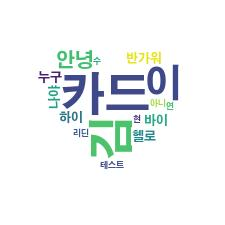
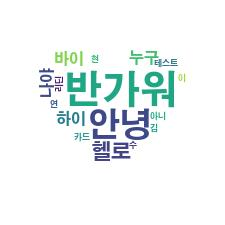
Delete: pycache | Modify: Wordcloud, Preprocessing

Changed region(s): [[0.1556, 0.2178, 0.84, 0.7467]]

diff --git a/features/Data_process/Preprocessing.py b/features/Data_process/Preprocessing.py
@@ -19,8 +19,9 @@ class Preprocessing:
         self.alphabet = 'abcdefghijklmnopqrstuvwxyzABCDEFGHIJKLMNOPQRSTUVWXYZ'
         self.number = '0123456789'
 
-    def processData(self, data):
-        print("Preprocess Start...")
+    def chatToSentence(self, data):
+        ''' data: crawled comment data'''
+        
         print("Make Sentences...")
         self.sentences = list()
         for idx, key in enumerate(data.keys()):
@@ -28,10 +29,14 @@ class Preprocessing:
             for comment in tqdm(data[key]):
                 for sentence in comment.split('\n'):
                     self.sentences.append(sentence.strip(self.token))
-
+        print('Done.')
+    
+    def sentenceToWord(self, data):
+        ''' data: may be several sentence data or preprocessed sentence data'''
+        
         print('\nMake Words...')
         self.words = list()
-        for sentence in tqdm(self.sentences):
+        for sentence in tqdm(data):
             for word in sentence.split(' '):
                 # Delete Emoticons
                 word = self.emoticon.sub(r'',word)
@@ -43,6 +48,7 @@ class Preprocessing:
                 word = word.strip(self.number)
                 # Store the word
                 self.words.append(word)
+        print('Done.')
     
     def getWord(self):
         return self.words

diff --git a/features/Data_process/Wordcloud.py b/features/Data_process/Wordcloud.py
@@ -8,14 +8,14 @@ import numpy as np
 
 class Wordcloud:
     def __init__(self, data=None):
-        self.data = data
+        self.words = data
 
     def makeWordCloud(self):
         okt = Okt()
 
         noun_adj_data = list()
 
-        for word in self.data:
+        for word in self.words:
             result = okt.pos(word)
             for word, tag in result:
                 if tag in ['Noun', 'Adjective']:
@@ -43,6 +43,6 @@ class Wordcloud:
 if __name__=='__main__':
     print('Testing start...')
     # ...
-    data = ['안녕','반가워','하이','바이','헬로우','누구','나야','테스트','아니','맞아','카드','리딘','김','현','지','이','연','수','카드','김','이','허']
+    data = ['안녕','반가워','하이','바이','헬로우','누구','나야','테스트','아니','맞아','카드','리딘','김','현','지','이','연','수','반가워','헬로우','반가워','안녕']
     wordT = Wordcloud(data=data)
     wordT.makeWordCloud()
